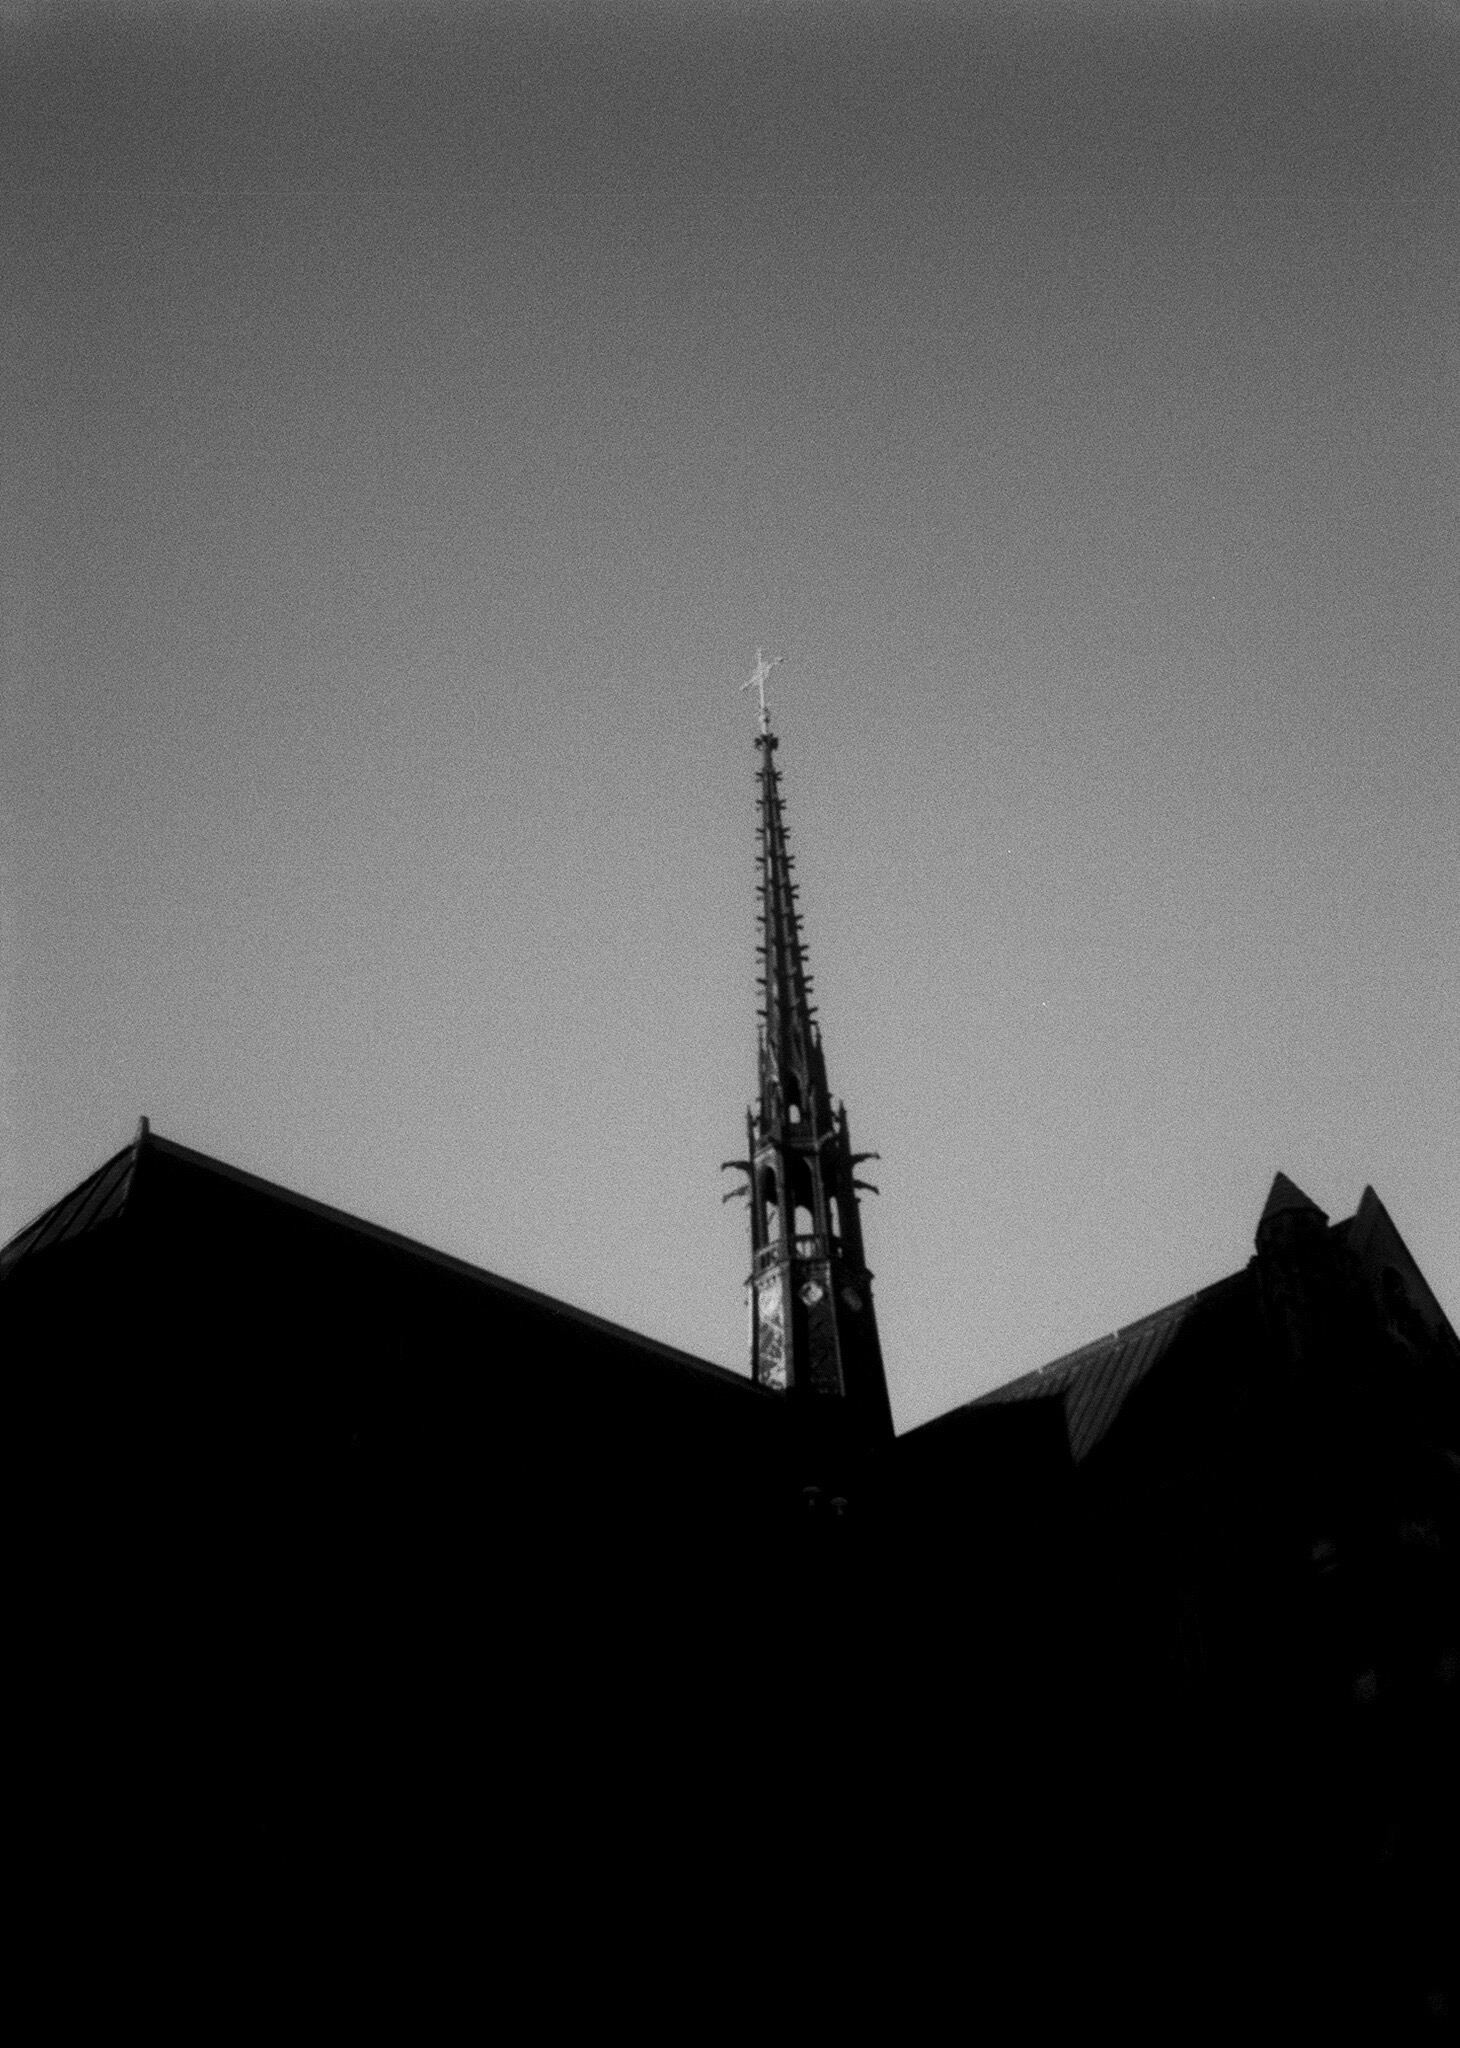
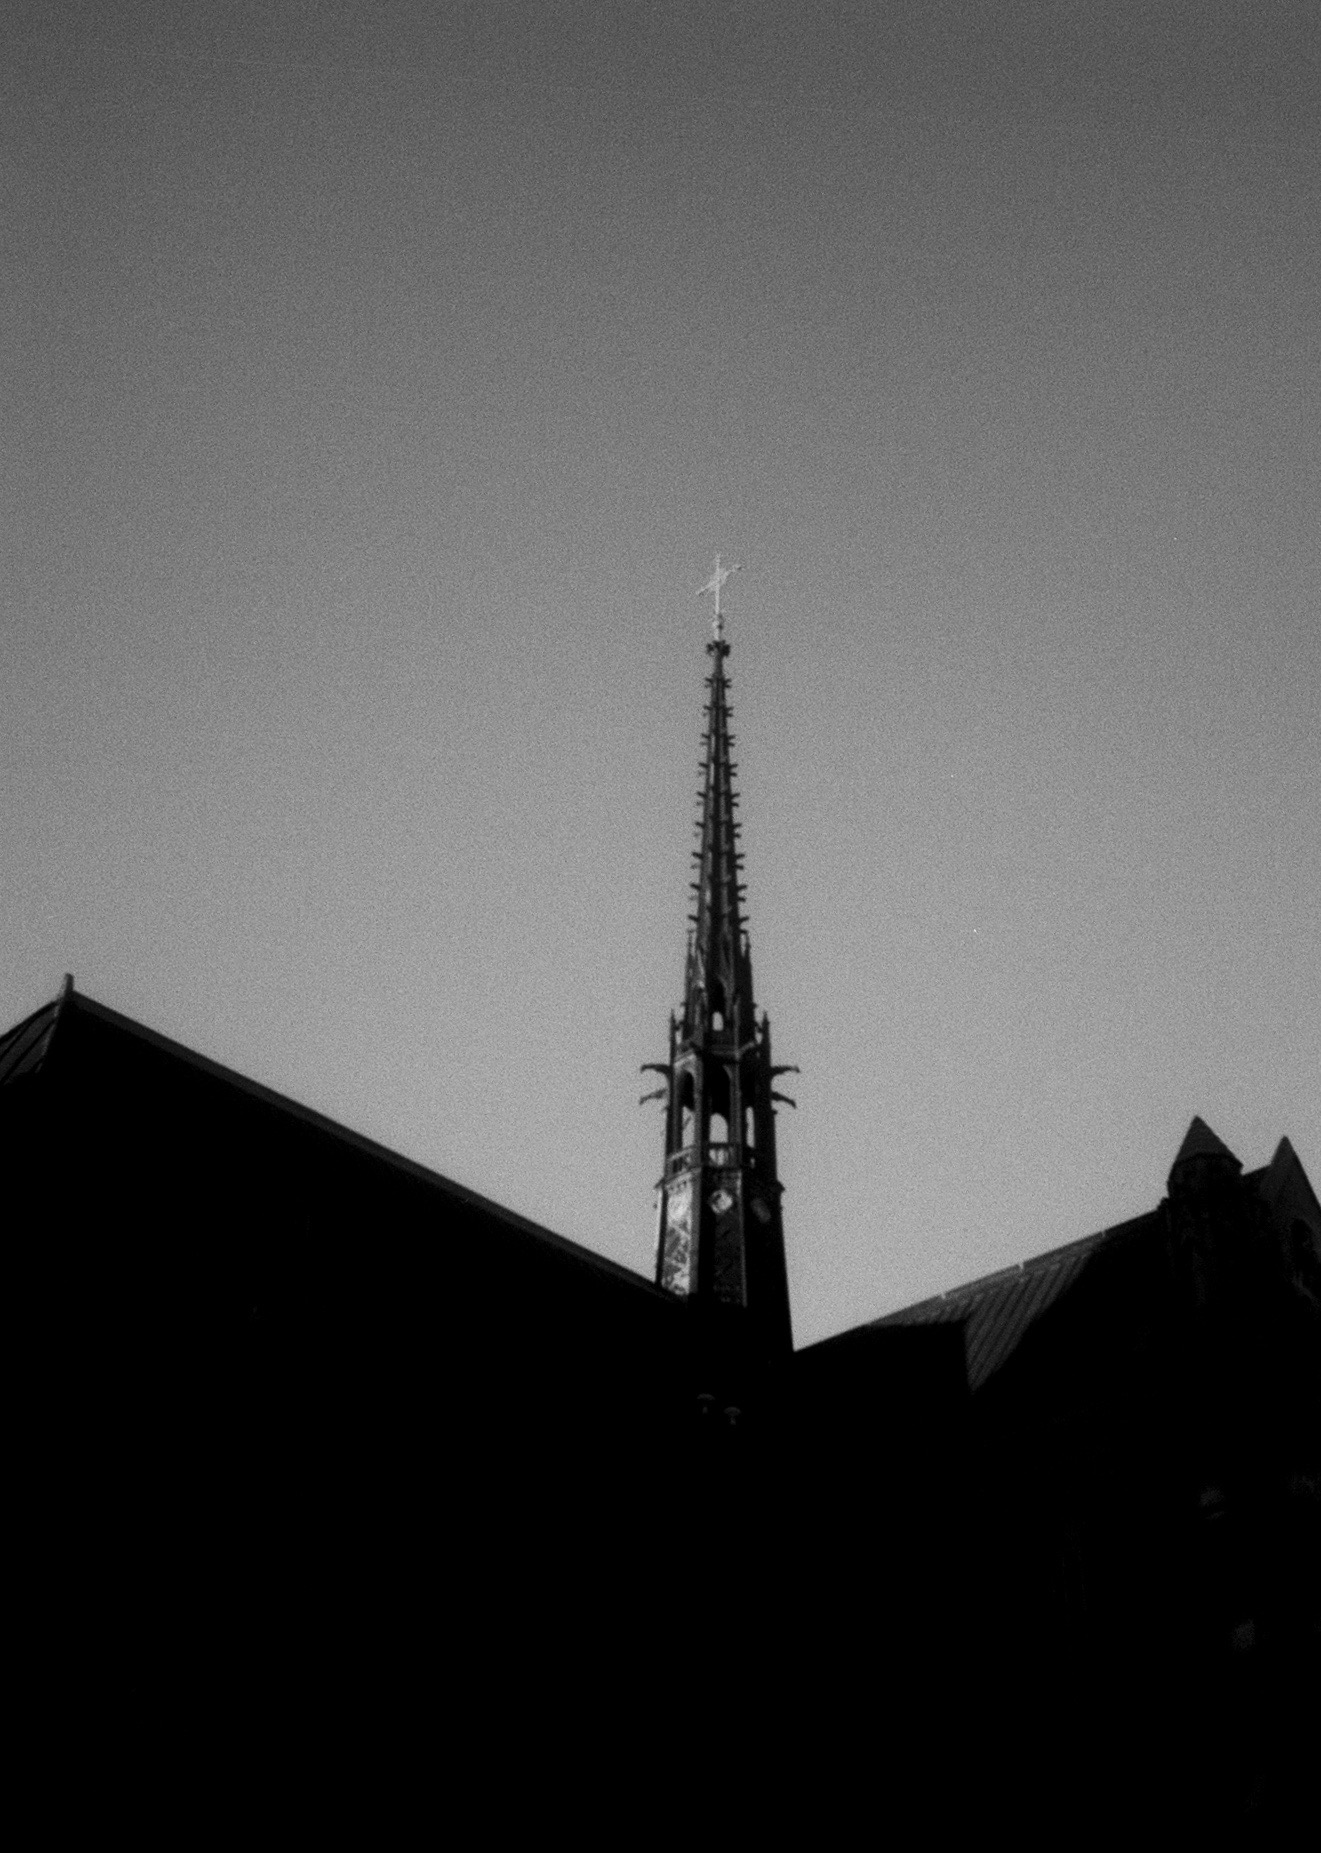
image edits; new post

Changed region(s): [[0.1552, 0.3076, 1.0, 0.7383], [0.0, 0.5229, 0.0931, 0.6152]]

diff --git a/content/posts/may-photos/index.md b/content/posts/may-photos/index.md
@@ -1,0 +1,52 @@
+---
+title: May SF Street Photos
+date: 2021-05-20
+image: 000079440028 swimmer bw.jpg
+tags:
+  - photography
+  - film
+---
+
+
+
+Shot during May 2021.  Huge mix of films (Delta in 100 and 3200, Fomapan 100, HP5, and Portra 160).
+
+<v-img src="000093720010.jpg" alt="bar" :dirp="dir"></v-img>
+<v-img src="000094960009.jpg" alt="bar" :dirp="dir"></v-img>
+<v-img src="000093720009.jpg" alt="bar" :dirp="dir"></v-img>
+<v-img src="000094960007.jpg" alt="bar" :dirp="dir"></v-img>
+<v-img src="000093840013.jpg" alt="bar" :dirp="dir"></v-img>
+<v-img src="000093850014.jpg" alt="bar" :dirp="dir"></v-img>
+<v-img src="000094960013.jpg" alt="bar" :dirp="dir"></v-img>
+<v-img src="church horse.png" alt="bar" :dirp="dir"></v-img>
+<v-img src="000093860019.jpg" alt="bar" :dirp="dir"></v-img>
+<v-img src="000093850020.jpg" alt="bar" :dirp="dir"></v-img>
+<v-img src="000093860028.jpg" alt="bar" :dirp="dir"></v-img>
+
+
+<v-img src="fontana combined.png" alt="bar" :dirp="dir"></v-img>
+<!--
+<v-img src="000093860010.jpg" alt="bar" :dirp="dir"></v-img>
+<v-img src="000093850011.jpg" alt="bar" :dirp="dir"></v-img>
+-->
+<v-img src="000094960015.jpg" alt="bar" :dirp="dir"></v-img>
+
+<v-img src="000094960012.jpg" alt="bar" :dirp="dir"></v-img>
+<v-img src="000093830002.jpg" alt="bar" :dirp="dir"></v-img>
+<v-img src="000094950011.jpg" alt="bar" :dirp="dir"></v-img>
+<v-img src="000093720005.jpg" alt="bar" :dirp="dir"></v-img>
+<v-img src="000094960008.jpg" alt="bar" :dirp="dir"></v-img>
+<!-- <v-img src="000093720001.jpg" alt="bar" :dirp="dir"></v-img> -->
+<v-img src="000093860014.jpg" alt="bar" :dirp="dir"></v-img>
+<v-img src="000093830026.jpg" alt="bar" :dirp="dir"></v-img>
+
+<!--consider smooshing together
+<v-img src="000093840026.jpg" alt="bar" :dirp="dir"></v-img>
+<v-img src="000093840015.jpg" alt="bar" :dirp="dir"></v-img>
+-->
+<!--
+consider cutting
+<v-img src="000093830030.jpg" alt="bar" :dirp="dir"></v-img>
+<v-img src="000093830001.jpg" alt="bar" :dirp="dir"></v-img>
+<v-img src="000093720012.jpg" alt="bar" :dirp="dir"></v-img>
+-->
